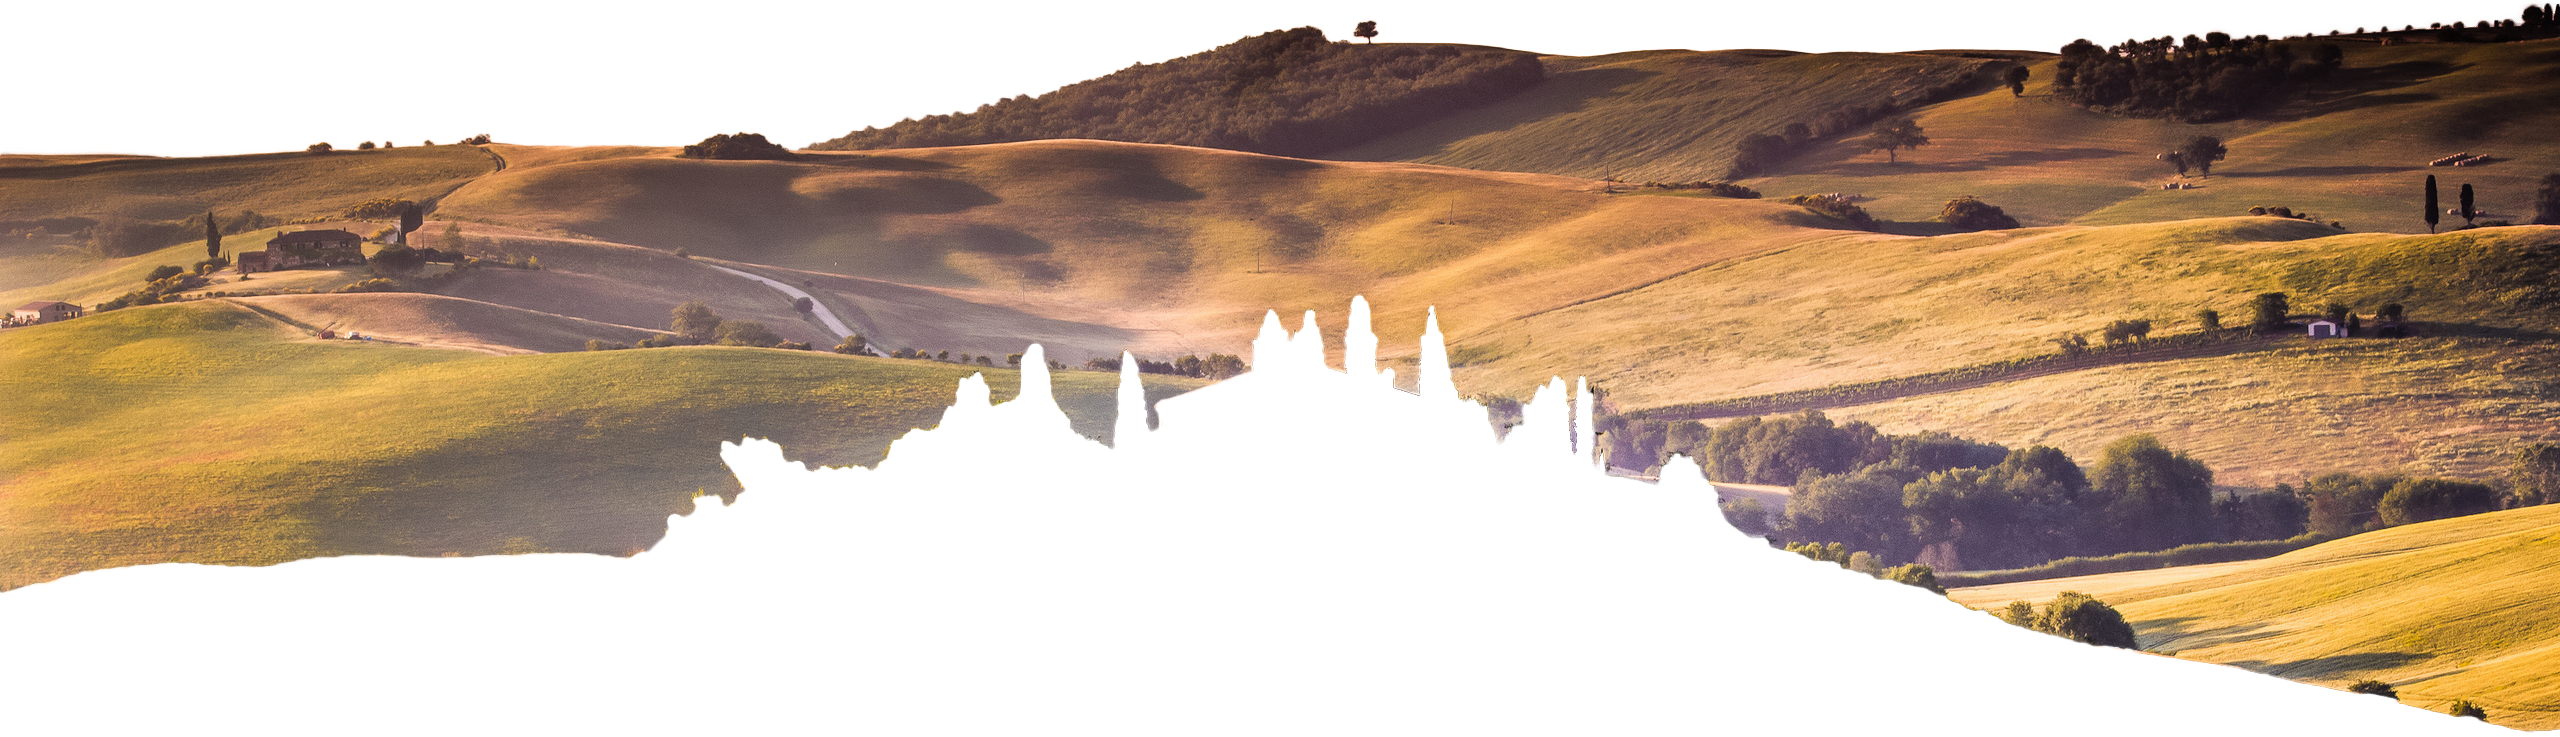
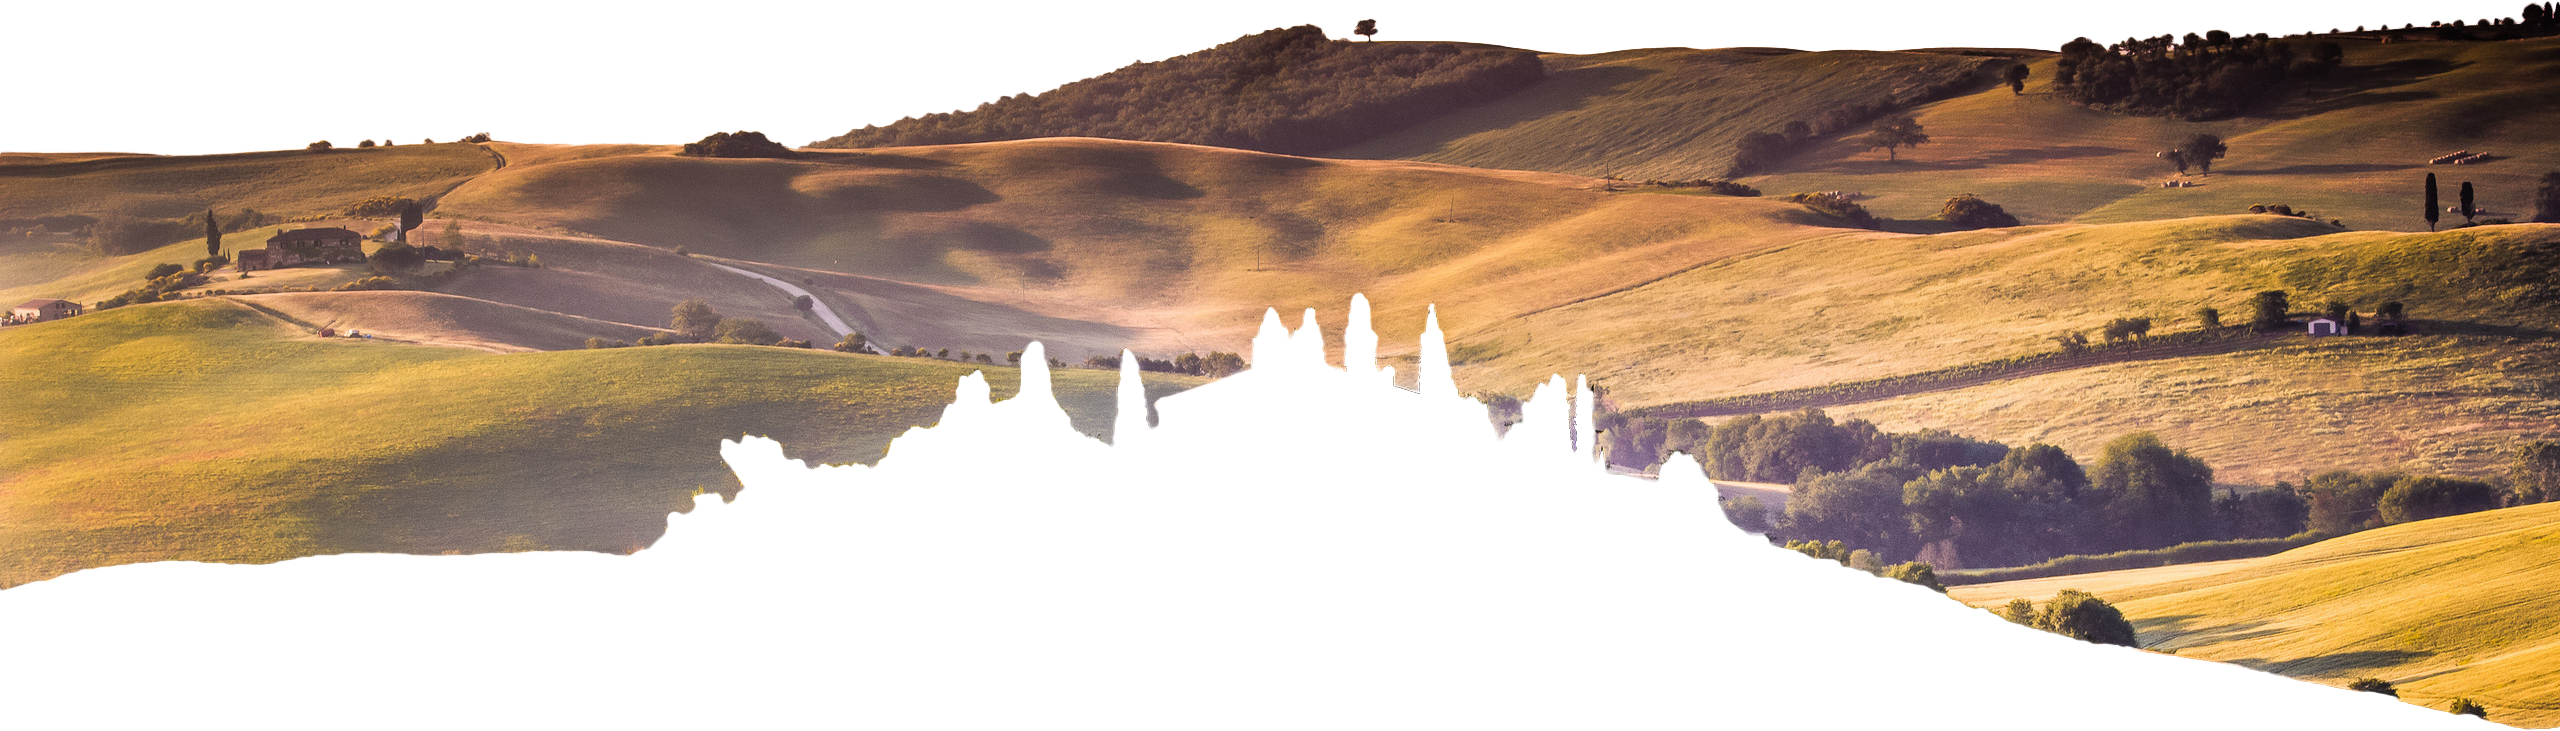
Paralax working - to adjust

diff --git a/OliveHub/src/components/Paralax/Paralax.jsx b/OliveHub/src/components/Paralax/Paralax.jsx
@@ -1,5 +1,6 @@
-import OLIVESKY from "../../images/OliveSky.jpg";
-import OLIVEGARDEN from "../../images/OliveGarden.jpg";
+import LANDSCAPE1 from "../../images/Landscape1.png";
+import LANDSCAPE2 from "../../images/Landscape2.png";
+import LANDSCAPE3 from "../../images/Landscape3.png";
 import FRESHOLIVES from "../../images/FreshOlives.jpg";
 
 import styles from "./Paralax.module.css";
@@ -7,9 +8,11 @@ import styles from "./Paralax.module.css";
 export function Paralax({ children }) {
   return (
     <div className={styles.paralax}>
-      <img className={styles.sky} src={OLIVESKY} alt="" />
-      <img className={styles.ground} src={OLIVEGARDEN} alt="" />
+      <img className={styles.landscape3} src={LANDSCAPE3} alt="" />
+      <img className={styles.landscape2} src={LANDSCAPE2} alt="" />
+      <img className={styles.landscape1} src={LANDSCAPE1} alt="" />
       <img className={styles.front} src={FRESHOLIVES} alt="" />
+
       {children}
     </div>
   );

diff --git a/OliveHub/src/components/Paralax/Paralax.module.css b/OliveHub/src/components/Paralax/Paralax.module.css
@@ -7,7 +7,7 @@
   perspective: 10px;
 }
 
-.sky .ground .front {
+.landscape1 .landscape2 .landscape3 .front {
   position: absolute;
   max-width: 100vh;
   height: 100%;
@@ -16,18 +16,27 @@
   top: 0;
 }
 
-.sky .ground .front img {
+.landscape1 .landscape2 .landscape3 .front img {
+  min-width: 100vh;
   max-width: 100vh;
 }
 
-.sky {
+.landscape3 {
   transform: translateZ(-20px) scale(4);
+  z-index: -3;
 }
 
-.ground {
+.landscape2 {
+  transform: translateZ(-15px) scale(2.5);
+  z-index: -2;
+}
+
+.landscape1 {
   transform: translateZ(-10px) scale(2);
+  z-index: -3;
 }
 
 .front {
   transform: translateZ(-5px) scale(1.5);
+  z-index: 0;
 }
